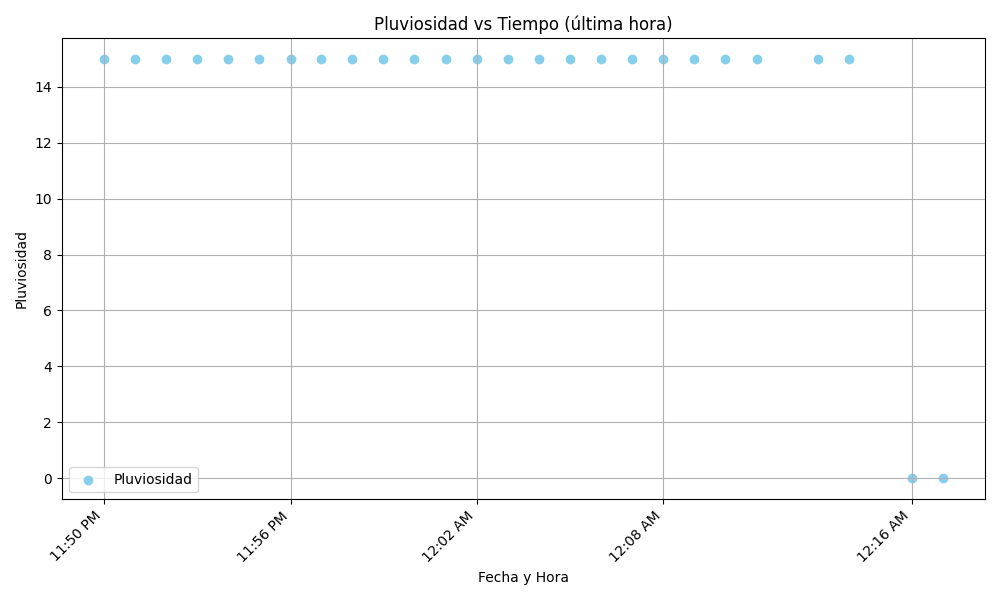
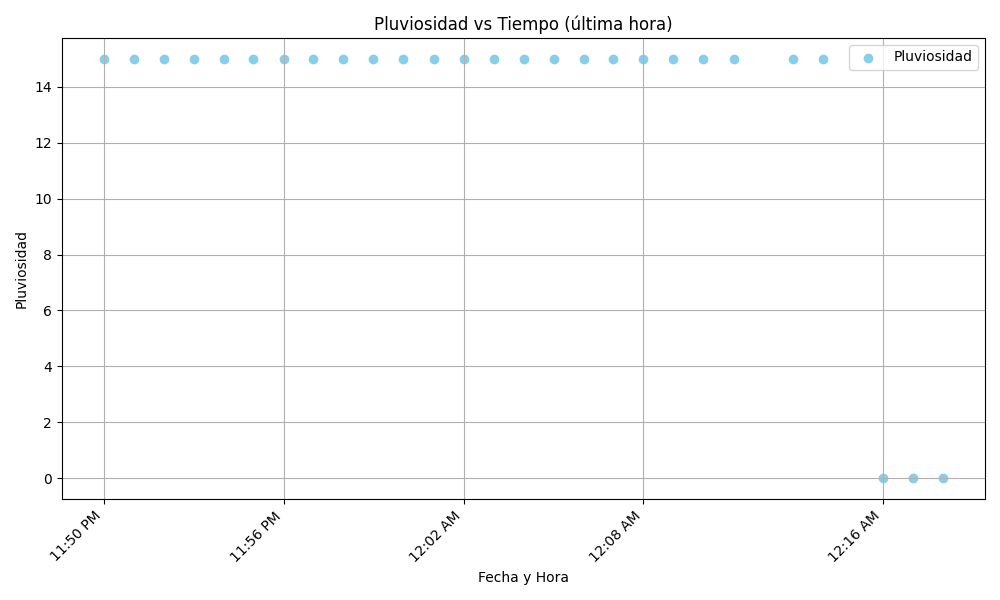
Se actualizaron archivos

diff --git a/funciones.py b/funciones.py
@@ -280,8 +280,8 @@ def leer_variables(PL_list, UV_list,tiempo):
                 UV = float(valor)
 
     except (FileNotFoundError, serial.SerialException, Exception) as e:
-        PL = 15
-        UV = 7
+        PL = 0
+        UV = 0
 
     finally:
         try:
